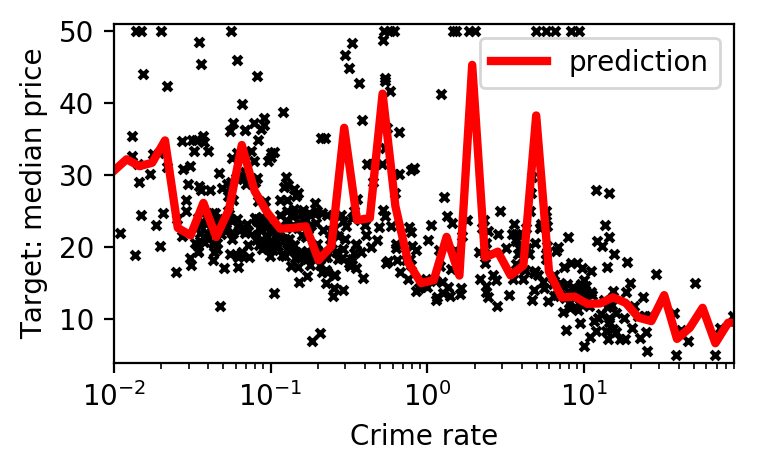
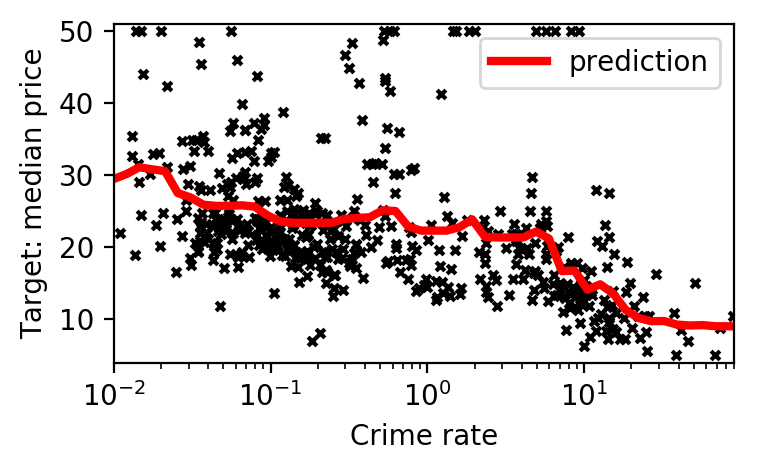
update slides 3

Changed region(s): [[0.1519, 0.1189, 0.9723, 0.7431]]

diff --git a/slides/03_machine_learning_models/index.html b/slides/03_machine_learning_models/index.html
@@ -30,6 +30,10 @@ Pierre Ablin
 
 .footnote.tiny[Credits: many contents and figures are borrowed from the scikit-learn [mooc](https://github.com/inria/scikit-learn-mooc/) and scipy
 [lecture notes](https://scipy-lectures.org/packages/scikit-learn/index.html).]
+
+---
+.center[
+# Recap from yesterday]
 ---
 
 # Classification Dataset: Iris
@@ -409,6 +413,9 @@ Usual ways to build these regions.
 <br/>
 ]
 
+---
+
+# Decision trees
 
 ---
 # Decision trees
@@ -780,6 +787,8 @@ depth = 10
 <br/>
 ]
 
+---
+# Linear models
 
 ---
 # Linear models
@@ -939,20 +948,20 @@ Output $z_1, \cdots, z_q$
 
 **Parameters**
 
-- Weights $w^i$, $i=1\dots q$
-- Biases $b$
-- Non linearity $\sigma$
+- Weights of $p$ coefficients $w^i$, $i=1\dots q$
+- Biases $b^i$
+- Non linearity $\sigma$ (e.g. $\sigma = ReLU, \sigma = \tanh$, ...)
 
 --
 
-$z_i = \sigma(w^i_1\times x_1 + \dots + w^i_p \times x_p + b)$
+$$z_i = \sigma(w^i_1\times x_1 + \dots + w^i_p \times x_p + b^i)$$
 
 
 ---
 # Neural networks
 
 
-$z_i = \sigma(w^i_1\times x_1 + \dots + w^i_p \times x_p + b)$
+$z_i = \sigma(w^i_1\times x_1 + \dots + w^i_p \times x_p + b^i)$
 --
 
 
@@ -968,8 +977,6 @@ Layers are stacked:
 
 
 $z_i = \sigma(w^i_1\times x_1 + \dots + w^i_p \times x_p + b)$
---
-
 
 Layers are stacked:
 
@@ -978,7 +985,7 @@ Layers are stacked:
 <br/>
 ]
 
-Here, 3 layers: depth=3
+Here, 2 layers: depth=2
 
 ---
 # Universal approximators

diff --git a/slides/03_machine_learning_models/boston_figs.py b/slides/03_machine_learning_models/boston_figs.py
@@ -31,7 +31,7 @@ plt.savefig('images/boston_3.png', bbox_extra_artists=[x_, y_],
             bbox_inches='tight', dpi=200)
 
 
-rf = RandomForestRegressor().fit(X[:, 0].reshape(-1, 1), y)
+rf = RandomForestRegressor(max_depth=3).fit(X[:, 0].reshape(-1, 1), y)
 xx = np.logspace(-2, 2)
 plt.plot(xx, rf.predict(xx.reshape(-1, 1)), linewidth=3, c='red',
          label='prediction')
